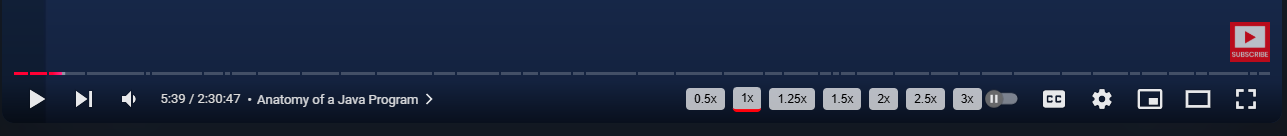
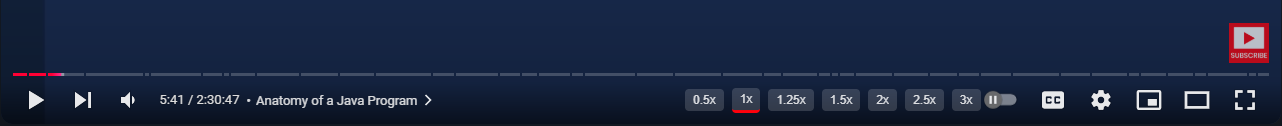
button update

Changed region(s): [[0.0, 0.0, 1.0, 0.9048], [0.0, 0.6667, 0.3432, 0.8571]]

diff --git a/styles.css b/styles.css
@@ -1,24 +1,27 @@
 #speedy-buttons {
   display: flex;
-  gap: 8px;
+  gap: 3px;
   align-items: center;
+  margin-right: 20px;
   margin-left: 20px;
 }
 
 .speedy-button {
-  padding: 4px 8px;
-  background-color: rgba(255, 255, 255, 0.7);
+  padding: 4px 4px;
+  width: 40px;
+  background-color: rgba(255, 255, 255, 0.158);
   border: none;
   border-radius: 4px;
-  color: #000;
+  color: rgba(255, 255, 255, 0.884);
+  font-family: sans-serif;
   cursor: pointer;
   font-size: 12px;
 }
 
 .speedy-button:hover {
-  background-color: rgba(255, 255, 255, 0.9);
+  background-color: rgba(255, 255, 255, 0.341);
 }
 
 .speedy-button.active-speed {
-  border-bottom: 3px solid red; /* Add red underline for active speed */
+  border-bottom: 2px solid red; /* Add red underline for active speed */
 }
